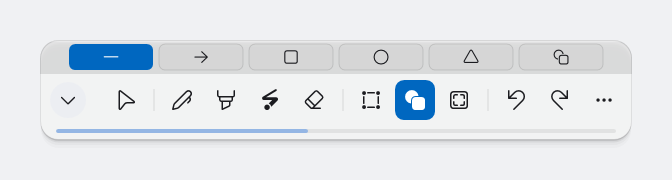
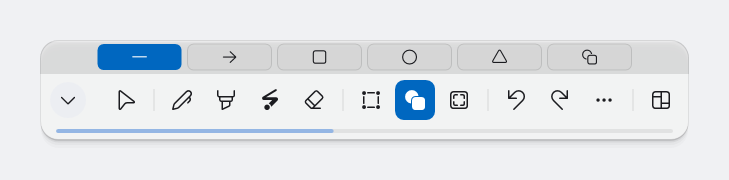
计划：补上白板按钮（引擎已有 SetBoard，界面上一直没入口）
现状：引擎早就有白板（SetBoard / UiState.Board / BoardColor / 切底色时整层重画），但界面从没给过入口，只有开发期的 --board 开关。

语义定案：白板是画布开关（不是工具、不是清空），和穿透同族 —— 点它不改当前工具；按钮高亮表示板开着；开板时自动关穿透。

位置：推荐主条第一组挨着鼠标/穿透（+48 像素，592 到 640）；假面板里先做成末尾单独一组以省下标重排。上带＝白板/绿板/黑板三色，复用『上带＝该按钮的设置条』这条规则。图标用 Fluent Board。

六条边界：开板自动关穿透、截图语义不变、清空只擦墨、选板色给笔色对比提示、切底色在一万笔时约 180~212ms 会看得见、白板不进撤销栈与存档。快捷键建议 Ctrl+Alt+B（把开发期基准挪走），改完同步快捷键总表。

假面板已能演示：按 B 开合、三色可选、开板盖住假 PPT。

diff --git a/tools/ui-mock/Program.cs b/tools/ui-mock/Program.cs
@@ -125,7 +125,7 @@ internal static class Program
         Console.WriteLine("  2) 鼠标移到最下面那道凹槽 → 拖块浮出，拖动改大小（笔＝笔宽，橡皮＝橡皮大小，右边有预览）");
         Console.WriteLine("  3) 按 D 切深色主题：看白块/黑块还分不分得出来");
         Console.WriteLine("  4) 按住面板空白处可以拖动它；点最左边那一格收起成球");
-        Console.WriteLine("  控制台热键：Esc 退出 · D 深浅 · C 收起/展开 · M 极简/完整 · H 瘦身档 · R 上带开合 · G 滑条 · S 图标档位 · T 换工具 · 1-9 选色 · +/- 大小 · L 激光笔图标");
+        Console.WriteLine("  控制台热键：Esc 退出 · D 深浅 · C 收起/展开 · M 极简/完整 · H 瘦身档 · B 白板开合 · R 上带开合 · G 滑条 · S 图标档位 · T 换工具 · 1-9 选色 · +/- 大小 · L 激光笔图标");
         Console.WriteLine();
 
         var keys = new Thread(() =>
@@ -197,6 +197,7 @@ internal static class Program
             case ConsoleKey.S: p.CycleIconScale(); break;
             case ConsoleKey.H: p.ToggleSlim(); break;
             case ConsoleKey.M: p.ToggleMini(); break;
+            case ConsoleKey.B: p.SetTool(PanelDraw.BoardTool); break;
             case ConsoleKey.T: p.SetTool((p.State.Tool + 1) % PanelDraw.Tools.Length); break;
             case ConsoleKey.OemPlus: case ConsoleKey.Add: p.NudgeSlider(0.06); break;
             case ConsoleKey.OemMinus: case ConsoleKey.Subtract: p.NudgeSlider(-0.06); break;
@@ -242,6 +243,8 @@ internal static class Program
             ("23-极简档-笔",           St(tool: 1, color: 0, mini: true, rail: 1),   false, 0, 0),
             ("24-极简档-橡皮",         St(tool: 4, color: 0, mini: true, rail: 1, eraser: 1, groove: 1), false, 0, 0),
             ("25-极简档-更多",         St(tool: 1, color: 0, mini: true, more: true), false, 0, 0),
+            ("26-白板-开着（盖住 PPT）", St(tool: 1, color: 0, board: true, boardColor: 0), true, 900, 420),
+            ("27-白板-板色三选",       St(tool: 11, color: 11, board: true, boardColor: 1, rail: 1), true, 900, 420),
         };
 
         foreach (var it in list)
@@ -256,7 +259,10 @@ internal static class Program
             {
                 if (it.Slide)
                 {
-                    SlideDraw.Draw(c, new Rect(0, 0, w, h));
+                    if (it.St.BoardOn)
+                        c.DrawRectangle(new SolidColorBrush(PanelDraw.BoardColors[it.St.BoardColor].Color), null, new Rect(0, 0, w, h));
+                    else
+                        SlideDraw.Draw(c, new Rect(0, 0, w, h));
                     c.PushTransform(new TranslateTransform((w - L.W) / 2, h - L.H - 20));
                 }
                 else
@@ -283,7 +289,7 @@ internal static class Program
                          bool dark = false, int tool = 1, int laser = 0, int eraser = 0,
                          bool hideInk = false, int select = 0, int shape = 0, int scale = 0,
                          double hold = 0, double flash = 0, bool slim = false, bool more = false,
-                         bool mini = false)
+                         bool mini = false, bool board = false, int boardColor = 0)
         => new PanelState
         {
             E = e, Rail = rail, Groove = groove, Color = color, Dark = dark, Tool = tool,
@@ -293,6 +299,7 @@ internal static class Program
             Slim = slim,
             MoreOpen = more,
             Mini = mini,
+            BoardOn = board, BoardColor = boardColor,
         };
 
     // =====================================================================
@@ -379,7 +386,18 @@ internal static class Program
 /// <summary>假 PPT 的一页：标题、正文、柱状图、红色手写批注、蓝色圈选。</summary>
 internal sealed class SlideElement : FrameworkElement
 {
-    protected override void OnRender(DrawingContext c) => SlideDraw.Draw(c, new Rect(0, 0, ActualWidth, ActualHeight));
+    public PanelState St;
+    protected override void OnRender(DrawingContext c)
+    {
+        var r = new Rect(0, 0, ActualWidth, ActualHeight);
+        if (St != null && St.BoardOn)
+        {
+            // 白板：把下面那张假 PPT 整块盖住 —— 这就是"白板模式"在真环境里的样子
+            c.DrawRectangle(new SolidColorBrush(PanelDraw.BoardColors[St.BoardColor].Color), null, r);
+            return;
+        }
+        SlideDraw.Draw(c, r);
+    }
 }
 
 internal static class SlideDraw

diff --git a/tools/ui-mock/PanelDraw.cs b/tools/ui-mock/PanelDraw.cs
@@ -25,7 +25,7 @@ internal static class PanelDraw
 
     public static double BarContentWidth(double btn) => BarContentWidth(btn, AllToolsIndex.Length, false);
 
-    static readonly int[] AllToolsIndex = { 0, 1, 2, 3, 4, 5, 6, 7, 8, 9, 10 };
+    static readonly int[] AllToolsIndex = { 0, 1, 2, 3, 4, 5, 6, 7, 8, 9, 10, 11 };
 
     /// <summary>极简档：只钉"笔 / 橡皮"，加一个永远的"更多"（下标是 Tools 里的原始下标）。</summary>
     public static readonly int[] MiniTools = { 1, 4, 10 };
@@ -85,14 +85,26 @@ internal static class PanelDraw
         ("undo", "undoFilled", "后撤"),
         ("redo", "redoFilled", "重做"),
         ("more", "moreFilled", "更多"),
+        ("board", "board", "白板"),
     };
 
-    public static readonly int[] GroupEnds = { 0, 4, 7 };
+    public static readonly int[] GroupEnds = { 0, 4, 7, 10 };
 
     /// <summary>后撤/重做是"动作"，点了就执行，不切换上下文。</summary>
     public static bool IsAction(int tool) => tool is 8 or 9;
     /// <summary>"更多"是入口：点了开合抽屉，也不改当前工具。</summary>
     public static bool IsEntry(int tool) => tool == 10;
+
+    /// <summary>白板是"画布开关"，不是工具：点了不改当前工具，只切底色。</summary>
+    public const int BoardTool = 11;
+
+    /// <summary>板色：白板 / 绿板 / 黑板 —— 教学上最常见的三种。</summary>
+    public static readonly (string Name, Color Color)[] BoardColors =
+    {
+        ("白板", C(0xFA, 0xFA, 0xF8)),
+        ("绿板", C(0x1E, 0x3A, 0x2E)),
+        ("黑板", C(0x18, 0x1A, 0x1E)),
+    };
 
     // ---- 「更多」抽屉 -----------------------------------------------------
 
@@ -232,6 +244,10 @@ internal static class PanelDraw
                 break;
             case 10: // 「更多」是入口不是工具：上带留作装饰（里面的开关都搬进抽屉了）
                 sp.Kind = StripKind.Colors; sp.Decorative = true; sp.Sel = s.Color;
+                break;
+            case BoardTool: // 白板：上带就是三种板色（正好复用"上带＝这个按钮的设置条"这条规则）
+                sp.Kind = StripKind.Segments; sp.Labels = new[] { "白板", "绿板", "黑板" };
+                sp.Sel = s.BoardColor;
                 break;
             default: // 鼠标（穿透）
                 sp.Kind = StripKind.Segments; sp.Labels = new[] { "直接操作", "穿透点击" }; sp.Sel = s.PassThrough ? 1 : 0;
@@ -677,7 +693,9 @@ internal static class PanelDraw
             int tool = L.ToolIndices[i];
             var t = L.Tiles[i + 1];
             double cx = t.X + t.Width / 2, cy = t.Y + t.Height / 2;
-            bool active = tool == s.Tool || (IsEntry(tool) && s.MoreOpen);
+            bool active = tool == s.Tool
+                       || (tool == BoardTool && s.BoardOn)
+                       || (IsEntry(tool) && s.MoreOpen);
             if (active)
                 c.DrawRoundedRectangle(new SolidColorBrush(Accent), null, t, 9, 9);
             else if (i == s.HoverTile)
@@ -976,4 +994,7 @@ internal sealed class PanelState
     /// <summary>「更多」抽屉开着没有；以及鼠标停在抽屉里哪一格。</summary>
     public bool MoreOpen;
     public int MoreHover = -1;
+    /// <summary>白板开着没有；板色 0 白 / 1 绿 / 2 黑。</summary>
+    public bool BoardOn;
+    public int BoardColor;
 }

diff --git a/tools/ui-mock/MockWindow.cs b/tools/ui-mock/MockWindow.cs
@@ -282,6 +282,23 @@ internal sealed class PanelElement : FrameworkElement
         if (i < 0 || i >= PanelDraw.Tools.Length) return;
 
         // 「更多」是入口：开合抽屉，不改当前工具
+        if (i == PanelDraw.BoardTool)
+        {
+            // 白板是"画布开关"：点了不改当前工具，只切底色
+            State.BoardOn = !State.BoardOn;
+            if (State.BoardOn)
+            {
+                State.PassThrough = false;   // 开着白板还穿透的话，点下去打到的是看不见的窗口
+                Status?.Invoke($"白板：开（{PanelDraw.BoardColors[State.BoardColor].Name}）—— 桌面被盖住，笔迹还在；穿透已自动关掉");
+            }
+            else Status?.Invoke("白板：关 —— 回到透明批注");
+            _railPinned = true;
+            _rail.To(1, 167, Now);           // 顺便把板色那一行露出来
+            InvalidateVisual();
+            LayoutChanged?.Invoke(PanelDraw.Compute(State));
+            return;
+        }
+
         if (PanelDraw.IsEntry(i))
         {
             State.MoreOpen = !State.MoreOpen;
@@ -385,6 +402,11 @@ internal sealed class PanelElement : FrameworkElement
             case 7:
                 State.CaptureHideInk = i == 1;
                 Status?.Invoke(i == 0 ? "截屏：直接截取（含批注）" : "截屏：隐藏批注截取（先把自己的覆盖层藏起来）");
+                break;
+            case PanelDraw.BoardTool:
+                State.BoardColor = i;
+                State.BoardOn = true;      // 选了板色 = 想用这块板
+                Status?.Invoke("板色：" + PanelDraw.BoardColors[i].Name);
                 break;
             default:
                 Status?.Invoke("选项：" + PanelDraw.SpecOf(State).Labels[i]);
@@ -770,7 +792,7 @@ internal sealed class DemoWindow : MockWindow
         Height = 660;
         Left = 120;
         Top = 80;
-        Root.Children.Insert(0, new SlideElement { Width = 1120, Height = 660 });
+        Root.Children.Insert(0, new SlideElement { Width = 1120, Height = 660, St = Panel.State });
     }
 
     protected override void ApplyLayout(PanelDraw.Layout L)

diff --git a/计划-界面-白板按钮.md b/计划-界面-白板按钮.md
@@ -1,0 +1,144 @@
+# 计划：补上「白板」按钮
+
+日期：2026-09-16　　状态：计划 + 假面板里已能演示
+
+截图：`design/mock/26-白板-开着（盖住 PPT）.png`、`27-白板-板色三选.png`
+
+---
+
+## 〇、先说现状：这不是"新增功能"，是"把已有能力摆到界面上"
+
+引擎里**白板早就有了**：
+
+| 已有的东西 | 位置 |
+|---|---|
+| `IEngineCommands.SetBoard(bool)` | 界面能切白板的唯一入口 |
+| `UiState.Board` | 界面能读到"板开着没有" |
+| `BoardOn` / `BoardColor`（默认近白 `0.99,0.99,0.98`） | 引擎内部状态与板色 |
+| `SetBoardFromUi(bool)` | 会**整层重画**（内容缓存是按旧底色画的） |
+
+但**界面上一个入口都没有** —— 现在只有一个开发期的命令行开关 `--board`（给自检截图用的）。
+老师根本不知道有这个功能。所以这一格的成本极低，收益很直接。
+
+---
+
+## 一、先定语义：白板是"画布开关"，不是工具
+
+**白板 = 画布底色开关**：打开 → 桌面被不透明底色盖住，**笔迹还在**；关掉 → 回到透明批注。
+它不是"新的一页"，也不是"清空"。
+
+所以它属于**画布模式**这一类 —— **和"穿透"是同一族**：
+
+| | 管什么 |
+|---|---|
+| 穿透 | 输入能不能到达下层 |
+| **白板** | 画布**画**不画在下层上面（视觉上盖住） |
+
+这条语义直接决定三件事：
+
+1. **点它不改变当前工具**（点完还是拿着笔）；
+2. 按钮高亮的意思是**"板开着"**，不是"当前工具＝白板"；
+3. 它和穿透**会打架**：开着白板还穿透，点下去打到的是看不见的窗口
+   → **开白板时自动把穿透关掉**（假面板里已经这么做）；关白板**不自动恢复**穿透（那是用户自己的选择）。
+
+---
+
+## 二、放哪里：三个候选，推荐第一组
+
+| 候选 | 好处 | 代价 |
+|---|---|---|
+| **① 主条第一组，挨着"鼠标/穿透"（推荐）** | 语义正确（都是画布模式）；和穿透的联动就在旁边 | 加一格：592 → **640（屏宽 +8%）**；要重排一次工具下标 |
+| ② 主条最右、"更多"左边 | 不动现有分组 | 语义上跑到了"编辑/设置"那一边，远离穿透 |
+| ③ 放进「更多」抽屉 | 不占主条 | **白板是高频动作**（一节课要切几次），藏进抽屉不合适 |
+
+**推荐 ①。** 我在假面板里先做成了"**末尾单独一组**"——只是为了不重排工具箱下标、降风险；
+接引擎时再挪到第一组，你看到的样子和最终版只差位置。
+
+> 极简档：建议**默认也钉上白板**（讲课刚需）：3 格 → 4 格，宽 201 → 245。
+
+---
+
+## 三、按钮的样子与它的"上带"
+
+| 状态 | 画法 |
+|---|---|
+| 关 | 普通单色图标（Fluent `Board`） |
+| 开 | **强调色底 ＋ 白图标**（和"当前工具"同一套视觉，但语义是"板开着"） |
+
+**它的上带 = 三种板色：`[白板] [绿板] [黑板]`** ——
+正好复用"上带＝这个按钮的设置条"那条已经跑通的规则，不用新机制。
+（选了某块板 = 顺便把板打开：选板色的人一定是要用板。）
+
+---
+
+## 四、图标
+
+- Fluent 有 `Board`（一块带边框的板），**已经在我们的图标表里** ✓
+- 建议常态就用它；激活态 = 白图标（现有机制）
+- **唯一值得考虑的"给图标上色"的例外**：让图标里那块"板面"填当前板色（因为它表达的就是板色）。
+  先不做 —— 这是"彩色图标"话题里唯一说得通的一处，等你看过再说。
+- 不建议用 `Whiteboard`：那枚更像"白板架/白板笔"，而且语义偏"白"（我们的板有绿有黑）。
+
+---
+
+## 五、边界与坑（这一节最容易漏）
+
+| 情况 | 应该怎样 | 为什么 |
+|---|---|---|
+| 开白板 ＋ 穿透 | **开板时自动关穿透** | 否则点下去打到看不见的窗口 |
+| 开白板 ＋ 截图 | "隐藏批注截取"变得没有差别（下面就是板本身），但**保持可用** | 不为了一个模式去改另一个模式的语义 |
+| 开白板 ＋ 清空 | 清空**只擦墨、不动板**；**关白板也不清墨** | 否则等于偷偷帮用户清屏 |
+| 白板 ＋ 笔色 | 白板配白笔、黑板配黑笔都看不见 → **选板色时给一次提示**，但不替用户改色 | 用户选的色不能替他改（这条在"白块黑块"那轮定过） |
+| 切换的代价 | 引擎里切底色会**整层重画**：几百笔无感；**一万笔时约 180～212 ms 会看得见** | 重度板书下建议加 120 ms 淡入遮一下 |
+| 存档 / 撤销 | 白板是**视图状态**：不进撤销栈、不进存档（和穿透一样） | 不然按 Ctrl+Z 会莫名其妙把板关了 |
+| 命令行的 `--board` | 保留（自检截图还要用） | 产品入口和开发开关互不影响 |
+
+---
+
+## 六、快捷键
+
+- 建议 **`Ctrl+Alt+B`**（B = Board，好记）
+- 现在 `Ctrl+Alt+B` 被"开发期一万笔基准"占着 → 把那条开发命令挪走（它本来就只该在命令行里）
+- **改完要同步改《快捷键总表》**（你们的规矩：改键必须同步改表，`--keytest` 会自动核对）
+
+---
+
+## 七、分两步做
+
+### 第 1 步：最小闭环（半天）
+
+主条加一格 ＋ 开/关 ＋ 高亮状态 ＋ 快捷键 ＋ 开板自动关穿透。
+
+验收：
+1. 点一下 → 桌面被盖住、**笔迹还在**；
+2. 再点 → 回到透明批注；
+3. 开板时穿透自动关（且按钮上能看出来）；
+4. 关板**不清墨**。
+
+### 第 2 步：板色（半天）
+
+上带给三种板色 ＋ 板色与笔色的对比提示。
+
+验收：
+1. 白/绿/黑三种板色都对；
+2. 选板色会顺手把板打开；
+3. 切板色之后笔迹颜色正常、没有被底色污染。
+
+---
+
+## 八、假面板里已经能演示的部分
+
+- 白板按钮（主条最右、单独一组）；**开板时按钮高亮**
+- 点开它 → 上带是 `[白板][绿板][黑板]`
+- 开板 → 背后的假 PPT **被整块盖住**（这就是白板在真环境里的样子）
+- 开板时**自动关穿透**
+- 控制台按 **`B`** 直接开合白板
+
+---
+
+## 九、来源
+
+- `src/InkEngine/Ui.cs`（`SetBoard` / `UiState.Board`）
+- `src/InkEngine/Engine.cs`（`BoardOn` / `BoardColor` / `SetBoardFromUi` 的整层重画）
+- [调研-界面-上下文设置条.md](调研-界面-上下文设置条.md)（上带＝当前按钮的设置条）
+- [快捷键总表.md](快捷键总表.md)（改键要同步改表）

diff --git a/README.md b/README.md
@@ -66,6 +66,11 @@
 [调研-界面-极简界面.md](调研-界面-极简界面.md)，图 `design/界面-设计稿v8-极简界面.png`。
 极简档已做进假面板：**按 `M` 在极简 / 完整之间切**（极简＝只钉笔/橡皮/更多，宽 201、
 屏宽 14%；笔只给 4 色：红/黑/蓝/白），截图 `design/mock/23~25-极简档-*.png`。
+**白板按钮的计划**（引擎里早有 `SetBoard`/`BoardColor`，界面上一直没有入口；
+建议放在主条第一组、挨着"穿透"，并顺手定下"开板自动关穿透"等六条边界）见
+[计划-界面-白板按钮.md](计划-界面-白板按钮.md)；假面板里已能演示：
+按 `B` 开合，点开它还有 `[白板][绿板][黑板]` 三色可选，
+截图 `design/mock/26-白板-开着（盖住 PPT）.png`、`27-白板-板色三选.png`。
 
 > **两轮"减法"（2026-09-14）**：
 > 1. **手写美化整层删除**（`src/InkEngine.Optimize`：1€ 滤波、RDP 抽稀、贝塞尔拟合、
